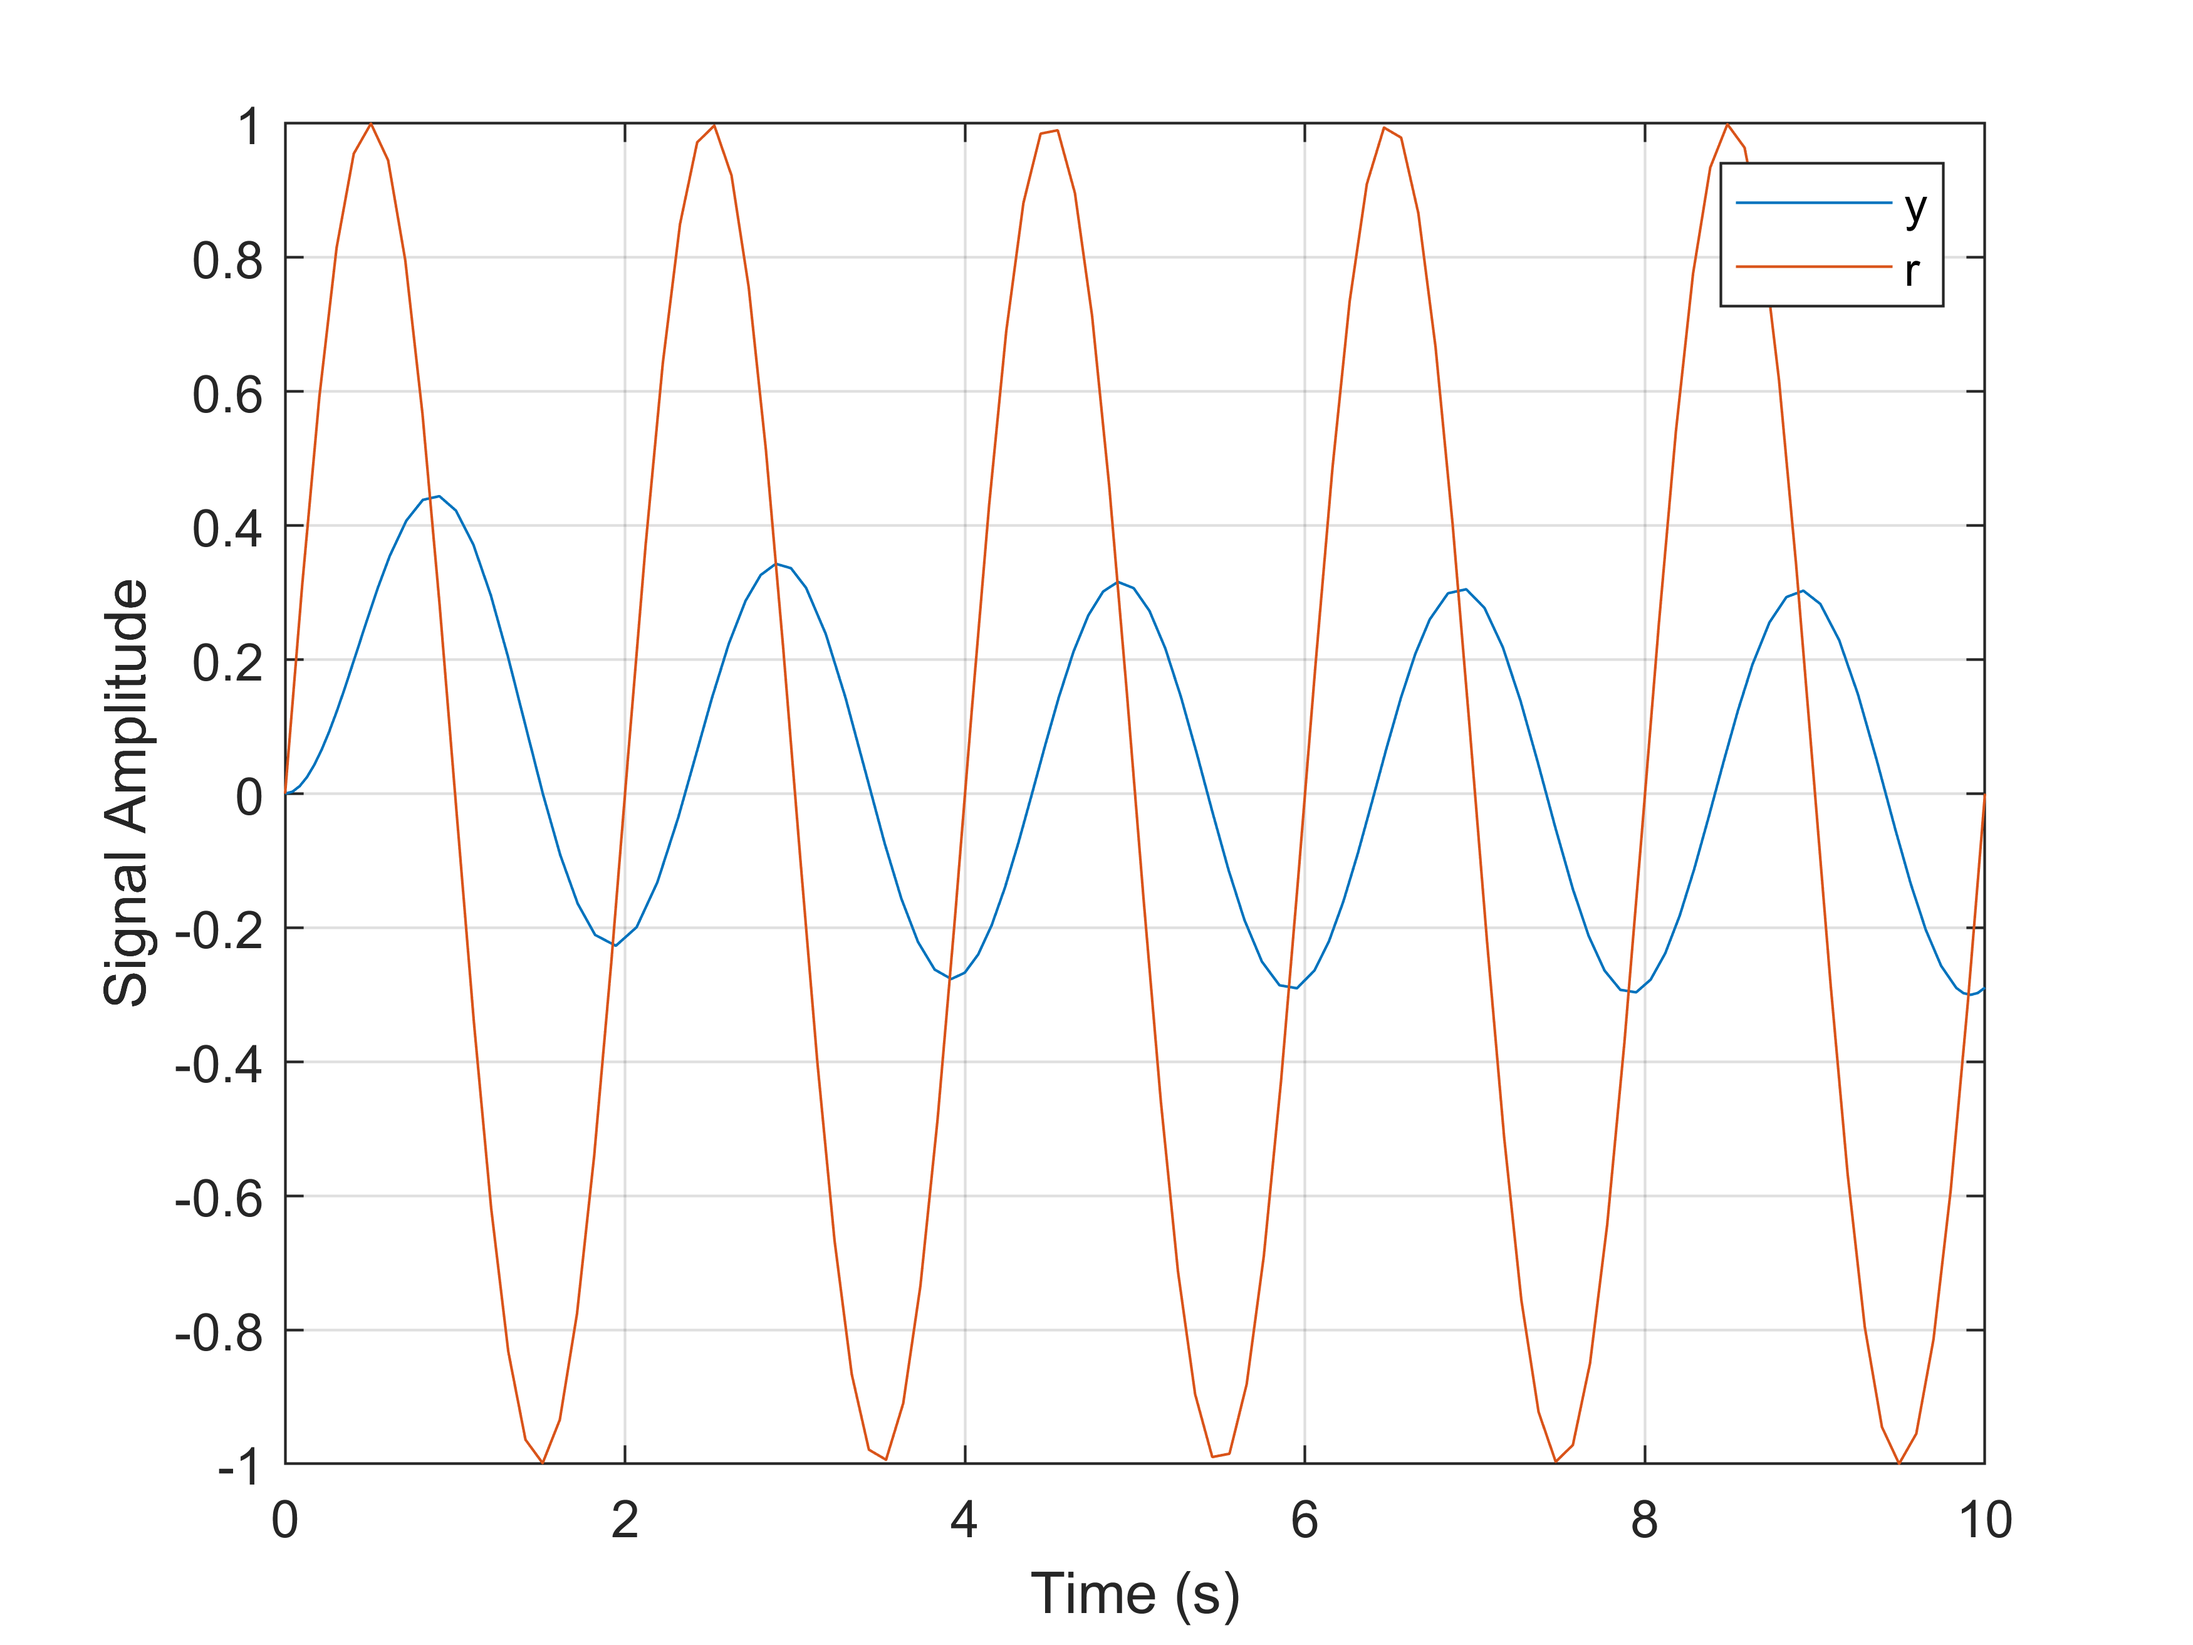
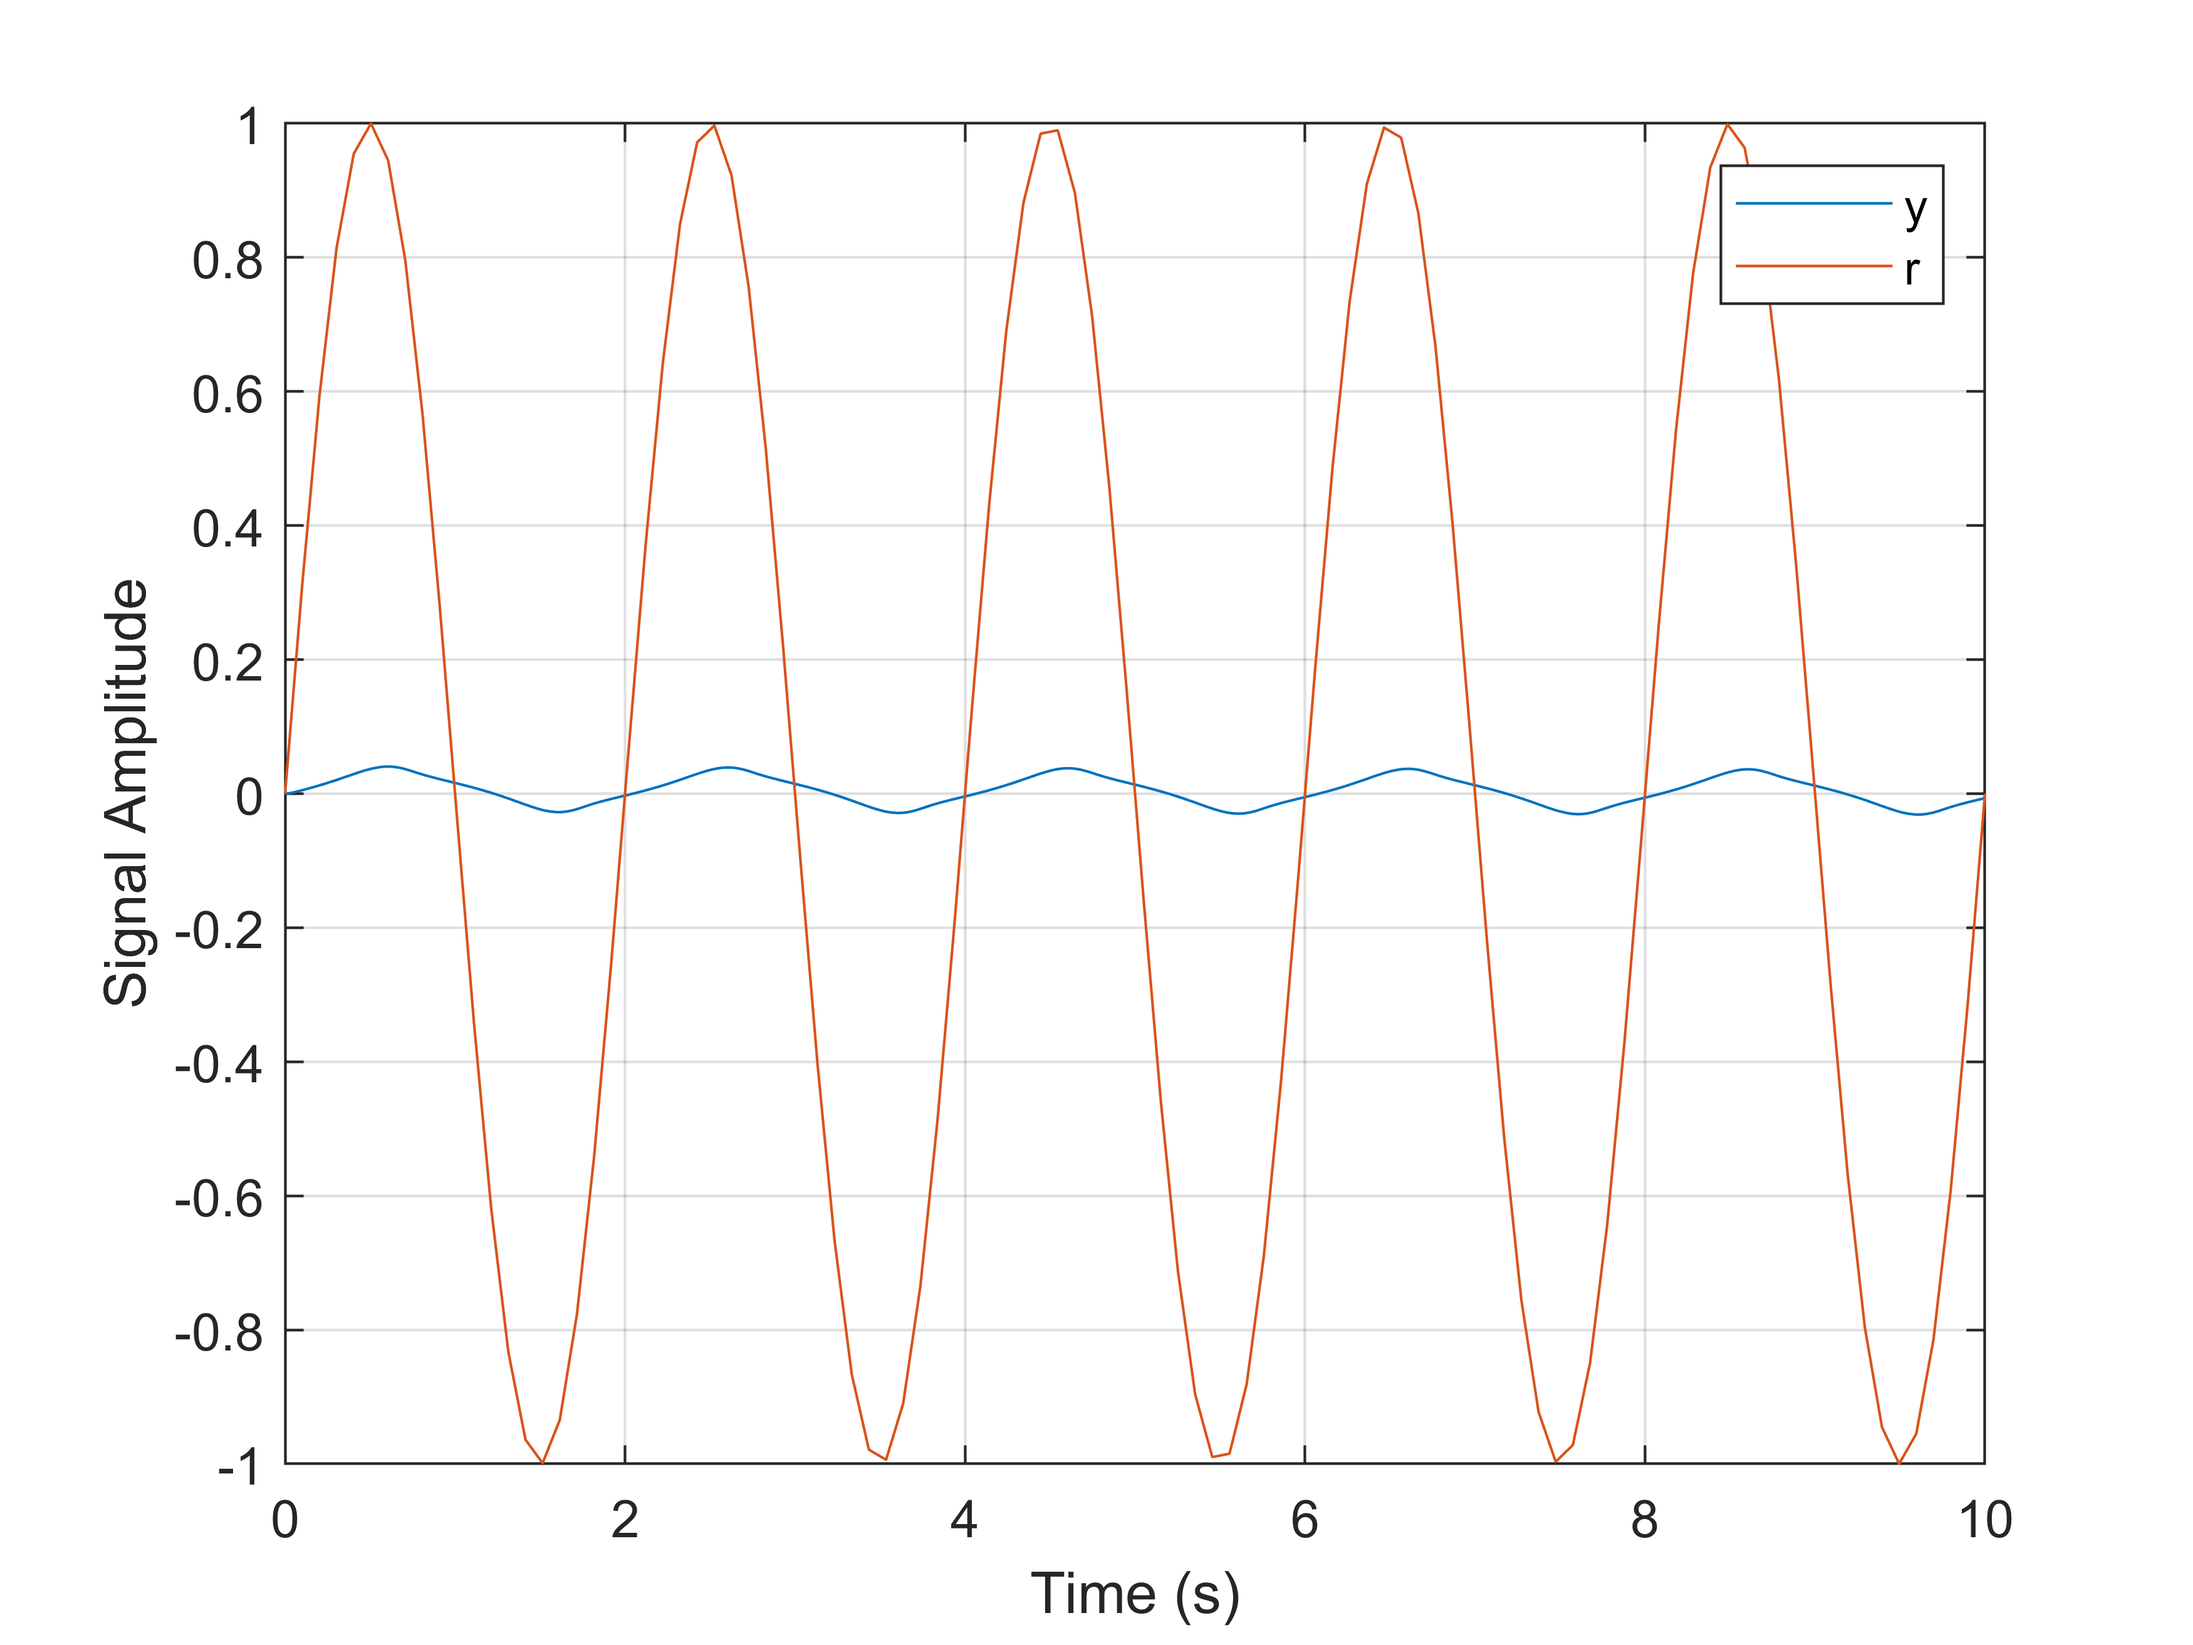
revelations in 4F2

diff --git a/IIB/4F2/oscillatory_NNs_and_pharmocokinetics/report.tex b/IIB/4F2/oscillatory_NNs_and_pharmocokinetics/report.tex
@@ -105,29 +105,24 @@
 \section{Stable and oscillatory recurrent neural networks}
 
 \begin{equation}
-    \dot{x} = f(x) + B_u u + B_w w = \begin{bmatrix}
-        -10z_1 + 10y \\
-        -100z_2 + 100y \\
-        -y + \varphi(w_1z_1 + w_2z_2 + w_3y)
+    \dot{x} = Ax + f(u) + B_w w = \begin{bmatrix}
+        -10 & 0 & 10 \\
+        0 & -100 & 100 \\
+        0 & 0 & -1
+    \end{bmatrix} x + \begin{bmatrix}
+        0 \\ 0 \\ \varphi(u)
     \end{bmatrix} + \begin{bmatrix}
         0 \\ 0 \\ 1
     \end{bmatrix} r
 \end{equation}
 
 \begin{equation}
-    y = \psi(x) + D_u u + D_w w = y
+    y = Cx + D_u u + D_w w = y
 \end{equation}
 
+And the feedback interconnection $u = w x$ is used to form the closed loop system.
+
 The nonlinear activation function is defined as $\varphi(x) = \tanh(x)$ jacobians are defined as
-\begin{equation}
-    \partial f(x) = \begin{bmatrix}
-        -10 & 0 & 10 \\
-        0 & -100 & 100 \\
-        w_1 \varphi'(w^T x) & w_2 \varphi'(w^T x) & -1 + w_3 \varphi'(w^T x)
-    \end{bmatrix} \quad \text{ and } \quad \partial \psi(x) = \begin{bmatrix}
-        0 & 0 & 1
-    \end{bmatrix}
-\end{equation}
 
 \subsection{Weights to satisfy a bounded differential gain}
 
@@ -144,17 +139,29 @@ This allows us to define a complex hull which contains $\partial f(x)$:
 
 This allows us to define two linear matrix inequalities (LMIs) to guarantee differential gain. 
 
+\textit{p}-gain $\gamma$ \textbf{from} $w$ \textbf{to} $y$ with rate $\lambda \geq 0$: find $Y = Y^T$ with inertia $p$, $Z$, and $\varepsilon > 0$,
+
 \begin{equation}
     \left[
-    \begin{array}{cc}
-    A_i^T P + P A_i + 2\lambda P + \frac{1}{\gamma} \partial \varphi(x)^T \varphi(x) & PB \\
-    B^T P & -\gamma I
+    \begin{array}{ccc}
+    Y \partial f(x)^T + \partial f(x) Y + 2 \lambda Y + Z^T B_u^T + B_u Z + \varepsilon I & B_w & YC^T \\
+    B_w^T & -\gamma I & D_w^T \\
+    CY & D_w & -\gamma I
     \end{array}
-    \right] \leq 0.
+    \right] \leq 0
+\end{equation}
+\begin{equation}
+    \left[
+    \begin{array}{ccc}
+    Y \partial f(x)^T + \partial f(x) Y + 2 \lambda Y + \varepsilon I & B_w & YC^T \\
+    B_w^T & -\gamma I & D_w^T \\
+    CY & D_w & -\gamma I
+    \end{array}
+    \right] \leq 0
 \end{equation}
 
-Values of $ w = \begin{bmatrix} 0.1 & 0.1 & 0.1 \end{bmatrix}^T $ were found to give a solution for P and hence satisfy the bounded differential gain condition.
-Unit step and harmonic reference signals were applied and the responses can be seen plotted below in figures \ref{fig:11_step} and \ref{fig:11_harmonic}.
+Where the weights $W = ZY^{-1}$.
+
 
 \begin{figure}[H]
     \centering

diff --git a/IIB/4F2/oscillatory_NNs_and_pharmocokinetics/Q1i.m b/IIB/4F2/oscillatory_NNs_and_pharmocokinetics/Q1i.m
@@ -12,13 +12,43 @@ G = Gsubs * 1/(s+1);
 
 G
 
-w1 = 0.1;
-w2 = 0.1;
-w3 = 0.1;
+gama = 2;
+lamda = 0.1;
 
-A0 =[-10, 0, 10; 0, -100, 100; 0, 0, -1];
-B = [0; 0; 1];
+df =[-10, 0, 10; 0, -100, 100; 0, 0, -1];
+Bu = [0; 0; 1];
+Bw = [0; 0; 1];
 C = [0, 0, 1];
+Dw = [0];
+
+
+cvx_begin sdp
+    variable Y(3,3) symmetric
+    variable Z(1,3)
+    variable epsl
+    
+    minimise(epsl)
+
+    LMI1 = Y >= 0;
+    LMI2 = epsl >= 0;
+    
+    % gain LMI
+    LMI3 = [ Y*df'+df*Y + 2*lamda*Y + epsl*eye(3), Bw, Y*C';
+             Bw', -gama*eye(1), Dw';
+             C*Y, Dw, -gama*eye(1) ] <= 0;
+    
+    LMI4 = [ Y*df'+df*Y + 2*lamda*Y + epsl*eye(3) + Z'*Bu' + Bu*Z, Bw, Y*C';
+             Bw', -gama*eye(1), Dw';
+             C*Y, Dw, -gama*eye(1) ] <= 0;
+         
+cvx_end
+
+K = Z * inv(Y)
+
+
+w1 = K(1);
+w2 = K(2);
+w3 = K(3);
 
 simulate_nonlinear_step(w1, w2, w3);
 
@@ -33,14 +63,7 @@ ylabel('Signal Amplitude')
 legend("y", "r")
 print(gcf, 'figures/11_harmonic_reference.png', '-dpng', '-r600');
 
-
-n = size(A0, 1);
-m = size(B, 2);
-
-gama = 2;
-lamda = 0.1;
-
-
+%{
 
 for w1 = [0.1:0.1:0.1]
     for w2 = [0.1:0.1:0.1]
@@ -68,3 +91,4 @@ for w1 = [0.1:0.1:0.1]
         end
     end
 end
+%}

diff --git a/IIB/4F2/oscillatory_NNs_and_pharmocokinetics/Q1iii.m b/IIB/4F2/oscillatory_NNs_and_pharmocokinetics/Q1iii.m
@@ -1,0 +1,40 @@
+
+
+
+df = [-10, 0, 10;
+      0, -100, 100;
+      0, 0, -1];
+Bu = [0; 0; 1];
+Bw = [0; 0; 1];
+Dw = 0;
+Du = 0;
+
+
+lamda = 20;
+
+n=3;
+
+cvx_begin sdp
+            variable Y(n,n) symmetric
+            variable Z(1,n)
+            variable epsilon
+            
+            minimize( eps )
+            
+            LMI1 = epsilon >= 0;
+                                                % gain LMI
+            LMI2 = df*Y + Y*df' + 2*lamda*Y + Z'*Bu' + Bu*Z + eps*eye(n) <= 0;
+            LMI3 = df*Y + Y*df' + 2*lamda*Y + eps*eye(n) <= 0;
+            
+            LMI4 = [Y*df' + df*Y + Z'*Bu'+Bu*Z+eps*eye(3)] <= 0;
+            
+            %LMI4 = trace(Y) <= 0;
+            
+cvx_end
+
+if strcmp(cvx_status, 'Solved') && sum(sign(eig(Y))) == -1
+    disp('horay')
+end
+K = Z / Y;
+
+simulate_nonlinear_step(K(1), K(2), K(3));

diff --git a/IIB/4F2/oscillatory_NNs_and_pharmocokinetics/simulate_nonlinear_step.m b/IIB/4F2/oscillatory_NNs_and_pharmocokinetics/simulate_nonlinear_step.m
@@ -2,7 +2,7 @@
 
 function [t, y_out] = simulate_nonlinear_step(w1, w2, w3)
     
-    tspan = [0 10];
+    tspan = [0 20];
     x0 = [0; 0; 0];
 
     [t, x] = ode45(@(t,x) q1ode(t, x, w1, w2, w3), tspan, x0);
